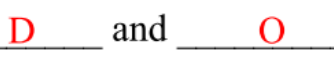
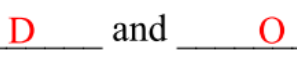
p5m07a: hw5 also shows the key's red construction drawing

diff --git a/sw.js b/sw.js
@@ -1,5 +1,5 @@
 // Bump on every release so iPads drop the old copy (docs/04-qa-and-release.md).
-const CACHE = "ebooks-v150";
+const CACHE = "ebooks-v151";
 
 self.addEventListener("install", (event) => {
   self.skipWaiting();
